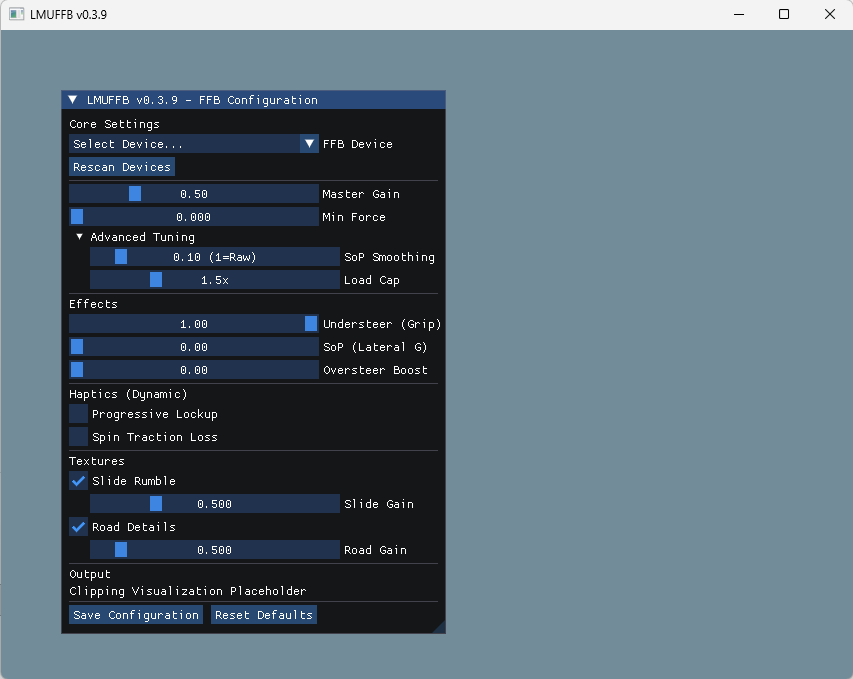
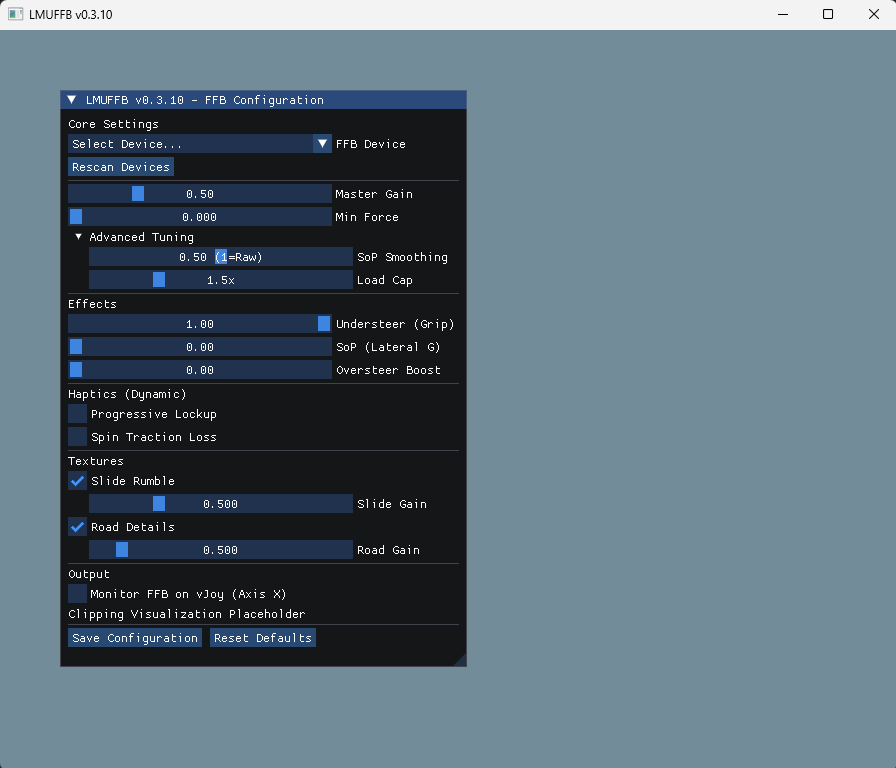
feat: Implement a configuration system for FFB parameters and vJoy output,

Changed region(s): [[0.061, 0.0928, 0.5487, 0.9588], [0.0, 0.0, 1.0, 0.0619], [0.0, 0.9897, 0.0305, 1.0]]

diff --git a/src/Config.cpp b/src/Config.cpp
@@ -4,11 +4,13 @@
 #include <iostream>
 
 bool Config::m_ignore_vjoy_version_warning = false;
+bool Config::m_output_ffb_to_vjoy = false; // Disabled by default (Safety)
 
 void Config::Save(const FFBEngine& engine, const std::string& filename) {
     std::ofstream file(filename);
     if (file.is_open()) {
         file << "ignore_vjoy_version_warning=" << m_ignore_vjoy_version_warning << "\n";
+        file << "output_ffb_to_vjoy=" << m_output_ffb_to_vjoy << "\n";
         file << "gain=" << engine.m_gain << "\n";
         file << "sop_smoothing_factor=" << engine.m_sop_smoothing_factor << "\n";
         file << "max_load_factor=" << engine.m_max_load_factor << "\n";
@@ -47,6 +49,7 @@ void Config::Load(FFBEngine& engine, const std::string& filename) {
             if (std::getline(is_line, value)) {
                 try {
                     if (key == "ignore_vjoy_version_warning") m_ignore_vjoy_version_warning = std::stoi(value);
+                    else if (key == "output_ffb_to_vjoy") m_output_ffb_to_vjoy = std::stoi(value);
                     else if (key == "gain") engine.m_gain = std::stof(value);
                     else if (key == "sop_smoothing_factor") engine.m_sop_smoothing_factor = std::stof(value);
                     else if (key == "max_load_factor") engine.m_max_load_factor = std::stof(value);

diff --git a/src/GuiLayer.cpp b/src/GuiLayer.cpp
@@ -215,6 +215,19 @@ void GuiLayer::DrawTuningWindow(FFBEngine& engine) {
 
     ImGui::Separator();
     ImGui::Text("Output");
+    
+    // vJoy Monitoring (Safety critical)
+    if (ImGui::Checkbox("Monitor FFB on vJoy (Axis X)", &Config::m_output_ffb_to_vjoy)) {
+        // Warn user if enabling
+        if (Config::m_output_ffb_to_vjoy) {
+            MessageBoxA(NULL, "WARNING: Enabling this will output the FFB signal to vJoy Axis X.\n\n"
+                              "If you have bound Game Steering to vJoy Axis X, this will cause a Feedback Loop (Wheel Spinning).\n"
+                              "Only enable this if you are NOT using vJoy Axis X for steering.", 
+                              "Safety Warning", MB_ICONWARNING | MB_OK);
+        }
+    }
+    if (ImGui::IsItemHovered()) ImGui::SetTooltip("Outputs calculated force to vJoy Axis X for visual monitoring in vJoy Monitor.\nDISABLE if binding steering to vJoy Axis X!");
+
     // Visualize Clipping (this requires the calculated force from the engine passed back, 
     // or we just show the static gain for now. A real app needs a shared state for 'last_output_force')
     // ImGui::ProgressBar((float)engine.last_force, ImVec2(0.0f, 0.0f)); 

diff --git a/main.cpp b/main.cpp
@@ -75,8 +75,8 @@ void FFBThread() {
                 force = g_engine.calculate_force(g_pTelemetry);
             }
 
-            // Update vJoy Axis (for monitoring) if active
-            if (vJoyActive) {
+            // Update vJoy Axis (for monitoring) if active AND enabled
+            if (vJoyActive && Config::m_output_ffb_to_vjoy) {
                 long axis_val = (long)((force + 1.0) * 0.5 * (axis_max - axis_min) + axis_min);
                 DynamicVJoy::Get().SetAxis(axis_val, VJOY_DEVICE_ID, 0x30); // 0x30 = HID_USAGE_X (hardcoded to avoid public.h dependency issues)
             }

diff --git a/src/Config.h b/src/Config.h
@@ -11,6 +11,7 @@ public:
 
     // Global App Settings (not part of FFB Physics)
     static bool m_ignore_vjoy_version_warning;
+    static bool m_output_ffb_to_vjoy; // Output FFB signal to vJoy Axis X (Monitor)
 };
 
 #endif

diff --git a/docs/directinput_implementation.md b/docs/directinput_implementation.md
@@ -1,0 +1,114 @@
+# DirectInput FFB Implementation Guide
+
+This document outlines the technical steps required to transition LMUFFB from a vJoy-based "Axis Mapping" architecture to a native **DirectInput Force Feedback** architecture. This change allows the application to send specific "Constant Force" packets directly to the steering wheel driver, bypassing the need for a virtual joystick and allowing the application to coexist seamlessly with the game's input system.
+
+## 1. Overview
+
+**Priority: CRITICAL / REQUIRED**
+
+Currently, LMUFFB acts as a virtual joystick (`vJoy`) and maps the calculated force to the **Axis Position**. This visualizes the force but does **not** drive the physical motors of a user's steering wheel.
+To function as a true Force Feedback application (like iRFFB or Marvin's AIRA), LMUFFB **must** implement a DirectInput client that opens the physical wheel and sends `Constant Force` packets.
+
+*Hypothetical Feature Note: Implementing DirectInput correctly is complex due to device enumeration, exclusive locking (cooperative levels), and handling lost devices. It effectively turns the app into a specialized driver client.*
+
+## 2. Technical Requirements
+
+*   **API**: DirectInput8 (via `dinput8.lib` / `dinput8.dll`).
+*   **Language**: C++ (Native COM interfaces).
+*   **Privileges**: Exclusive access to the FFB device is often required (`DISCL_EXCLUSIVE | DISCL_BACKGROUND`).
+
+## 3. Implementation Steps
+
+### Phase 1: Device Enumeration & Initialization
+Instead of connecting to vJoy ID 1, we must scan connected hardware.
+
+```cpp
+IDirectInput8* g_pDI = NULL;
+IDirectInputDevice8* g_pDevice = NULL;
+
+// 1. Create DirectInput Object
+DirectInput8Create(GetModuleHandle(NULL), DIRECTINPUT_VERSION, IID_IDirectInput8, (void**)&g_pDI, NULL);
+
+// 2. Enumerate Devices (Filter for Wheels/FFB)
+g_pDI->EnumDevices(DI8DEVCLASS_GAMECTRL, EnumJoysticksCallback, NULL, DIEDFL_ATTACHEDONLY | DIEDFL_FORCEFEEDBACK);
+
+// 3. Callback Logic
+BOOL CALLBACK EnumJoysticksCallback(const DIDEVICEINSTANCE* pdidInstance, VOID* pContext) {
+    // Check if device supports FFB
+    // Create Device
+    g_pDI->CreateDevice(pdidInstance->guidInstance, &g_pDevice, NULL);
+    return DIENUM_STOP; // Stop after finding first FFB wheel
+}
+```
+
+### Phase 2: Setting Cooperative Level
+This is critical. FFB usually requires Exclusive/Background access so forces continue when the app is minimized (running alongside the game).
+
+```cpp
+g_pDevice->SetCooperativeLevel(hwnd, DISCL_EXCLUSIVE | DISCL_BACKGROUND);
+g_pDevice->SetDataFormat(&c_dfDIJoystick);
+g_pDevice->Acquire();
+```
+
+### Phase 3: Creating the Effect
+We need a **Constant Force** effect.
+
+```cpp
+DIEFFECT diEffect;
+DICONSTANTFORCE diConstantForce;
+LPDIRECTINPUTEFFECT g_pEffect = NULL;
+
+// Initialize parameters
+diConstantForce.lMagnitude = 0;
+
+diEffect.dwSize = sizeof(DIEFFECT);
+diEffect.dwFlags = DIEFF_CARTESIAN | DIEFF_OBJECTOFFSETS;
+diEffect.dwDuration = INFINITE;
+diEffect.dwGain = DI_FFNOMINALMAX;
+diEffect.cbTypeSpecificParams = sizeof(DICONSTANTFORCE);
+diEffect.lpvTypeSpecificParams = &diConstantForce;
+// ... (Set Axes/Directions) ...
+
+// Create
+g_pDevice->CreateEffect(GUID_ConstantForce, &diEffect, &g_pEffect, NULL);
+g_pEffect->Start(1, 0);
+```
+
+### Phase 4: Updating the Force (The Loop)
+Inside the `FFBThread` (400Hz loop), instead of calling `SetAxis` (vJoy), we update the effect.
+
+```cpp
+void UpdateDirectInputForce(double normalizedForce) {
+    if (!g_pEffect) return;
+
+    // Map -1.0..1.0 to -10000..10000
+    LONG magnitude = (LONG)(normalizedForce * 10000.0);
+    
+    // Clamp
+    if (magnitude > 10000) magnitude = 10000;
+    if (magnitude < -10000) magnitude = -10000;
+
+    DICONSTANTFORCE cf;
+    cf.lMagnitude = magnitude;
+
+    DIEFFECT eff;
+    ZeroMemory(&eff, sizeof(eff));
+    eff.dwSize = sizeof(DIEFFECT);
+    eff.cbTypeSpecificParams = sizeof(DICONSTANTFORCE);
+    eff.lpvTypeSpecificParams = &cf;
+
+    // Send to driver (Low latency call)
+    g_pEffect->SetParameters(&eff, DIEP_TYPESPECIFICPARAMS | DIEP_START);
+}
+```
+
+## 4. Challenges & Solutions
+
+1.  **Device Selection**: Users may have multiple controllers (Handbrake, Shifter, Wheel). The GUI must allow selecting the specific FFB device from a list.
+2.  **Spring/Damper Effects**: Some wheels default to a heavy centering spring. The app should explicitly create specific Spring/Damper effects with 0 magnitude to "clear" the driver's default behavior.
+3.  **Loss of Focus**: Even with `DISCL_BACKGROUND`, some games (or drivers) steal exclusive access. The app must handle `DIERR_NOTACQUIRED` errors and attempt to `Acquire()` periodically.
+
+## 5. Benefits
+*   **Latency**: Bypasses the vJoy -> Driver bridge.
+*   **Usability**: User does not need to configure vJoy. They just select their wheel in LMUFFB.
+*   **Compatibility**: Works with games that don't support multiple controllers well (though LMU is generally good with this).

diff --git a/README.md b/README.md
@@ -7,8 +7,7 @@ Experimental alpha version.
 ![lmuFFB GUI](docs/screenshots/app.png)
 
 
-
-## Installation & Configuration
+## Installation & Configuration  
 
 ### 1. Prerequisites
 *   **vJoy Driver**: Install version **2.1.9.1** (by jshafer817) or compatible. Download from [vJoy releases](https://github.com/jshafer817/vJoy/releases).
@@ -35,12 +34,16 @@ Experimental alpha version.
     *   **Method A (Recommended - Requires Feeder):** Bind to **vJoy Device (Axis X)**.
         *   *Requirement:* You MUST use a tool like **vJoy Feeder** (bundled with vJoy), **Joystick Gremlin**, or **Mojo** to map your physical wheel axis to the vJoy axis. lmuFFB does not yet bridge steering input.
         *   *Why?* This guarantees LMU sends FFB to vJoy (Dummy) and not your real wheel.
+        *   *Note:* Ensure lmuFFB "Monitor FFB on vJoy" is **DISABLED** (default) if using this method, to avoid feedback loops.
     *   **Method B (Experimental - No Feeder):** Bind to your **Physical Wheel**.
         *   *Risk:* LMU might try to take exclusive control of the wheel's FFB, causing "Double FFB" or blocking lmuFFB.
 5.  **Force Feedback**:
     *   **Type**: Set to "None" (if available) or reduce **FFB Strength** to **0%** / **Off**.
         *   *Note:* LMU may not have a "None" option; reducing strength to 0 is the workaround.
-    *   **Smoothing**: Set to **0** (Raw) to ensure lmuFFB gets the fastest telemetry updates.
+    *   **Effects**: Set "Force Feedback Effects" to **Off**.
+    *   **Smoothing**: Set to **0** (Raw).
+    *   **Advanced**: Set "Collision Strength" and "Steering Torque Sensitivity" to **0%**.
+    *   **Tweaks**: Disable "Use Constant Steering Force Effect".
 
 **C. Configure lmuFFB (The App)**
 1.  Run `LMUFFB.exe`.
@@ -62,11 +65,11 @@ Experimental alpha version.
     - Ensure the "FFB Device" in lmuFFB is your real wheel.
     - Check if the Shared Memory Plugin is working (Does "Connected to Shared Memory" appear in the console?).
 - **"vJoyInterface.dll not found"**: Ensure the DLL is in the same folder as the executable. You can grab it from `C:\Program Files\vJoy\SDK\lib\amd64\` or download from the [vJoy GitHub](https://github.com/shauleiz/vJoy/tree/master/SDK/lib/amd64/vJoyInterface.dll).
+    - *Alternative:* You can try moving `LMUFFB.exe` directly into `C:\Program Files\vJoy\x64\` if you have persistent DLL issues.
 - **"Could not open file mapping object"**: Start the game and load a track first.
 
 ## Known Issues (v0.3.3)
 *   **Telemetry Gaps**: Some users report missing telemetry for Dashboard apps (ERS, Temps). lmuFFB has robust fallbacks, but if `mGripFract` is missing (Tire Temps broken), the Understeer effect may be static. See [Telemetry Report](docs/dev_docs/telemetry_availability_report.md).
-
 
 ## Documentation
 
@@ -78,6 +81,7 @@ Experimental alpha version.
 *   [Telemetry Data Reference](docs/dev_docs/telemetry_data_reference.md)
 *   [vJoy Compatibility Guide](docs/vjoy_compatibility.md)
 *   [Comparisons with Other Apps](docs/comparisons.md)
+
 
 
 ## Architecture
@@ -154,3 +158,4 @@ To create the `LMUFFB_Setup.exe`:
 2.  **Build the Project**: Ensure you have built the `Release` version of `LMUFFB.exe` using Visual Studio.
 3.  **Run Compiler**: Open `installer/lmuffb.iss` in Inno Setup Compiler and click **Compile**.
 4.  **Output**: The installer will be generated in `installer/Output/`.
+

diff --git a/CHANGELOG.md b/CHANGELOG.md
@@ -2,6 +2,11 @@
 
 All notable changes to this project will be documented in this file.
 
+## [0.3.10] - 2025-05-23
+### Fixed
+- **Wheel Spinning Loop**: Implemented a safety switch (`Monitor FFB on vJoy`) which is **Disabled by default**. This prevents the app from writing FFB to vJoy Axis X, which caused a feedback loop if users bound Game Steering to that axis.
+- **Steering Input Confusion**: Updated documentation to explicitly state LMUFFB does not bridge steering input; users must use external Feeders or alternative bindings.
+
 ## [0.3.9] - 2025-05-23
 ### Added
 - **Smoothing & Caps**: Added configuration sliders for `SoP Smoothing` (Low Pass Filter) and `Load Cap` (Max Tire Load scale) in the GUI ("Advanced Tuning" section). This allows users to fine-tune signal noise vs. responsiveness.
@@ -21,12 +26,12 @@ All notable changes to this project will be documented in this file.
 - **Documentation Updates**:
     - Updated `README.md` and `README.txt` to be LMU-specific (replaced "Game" references).
     - Clarified that LMU lacks a "None" FFB option; advised setting Strength to 0% as a workaround.
-    - Updated `dev_docs/investigation_vjoyless_implementation.md` with LMU-specific experiments.
+    - Updated `investigation_vjoyless_implementation.md` with LMU-specific experiments.
     - Updated `plan_troubleshooting_FFB_visualizations.md` to specify "Rolling Trace Plots" for all telemetry/physics values.
 
 ## [0.3.6] - 2025-05-23
 ### Documentation
-- **Troubleshooting**: Added comprehensive plans for "FFB Visualizations" (`docs/dev_docs/plan_troubleshooting_FFB_visualizations.md`) and "Guided Configurator" (`docs/dev_docs/plan_guided_configurator.md`).
+- **Troubleshooting**: Added comprehensive plans for "FFB Visualizations" (`docs/plan_troubleshooting_FFB_visualizations.md`) and "Guided Configurator" (`docs/plan_guided_configurator.md`).
 - **Clarification**: Updated README.md and README.txt to clarify that LMUFFB does not bridge steering input, requiring external "Feeder" tools if vJoy is used for input binding.
 
 ## [0.3.5] - 2025-05-23
